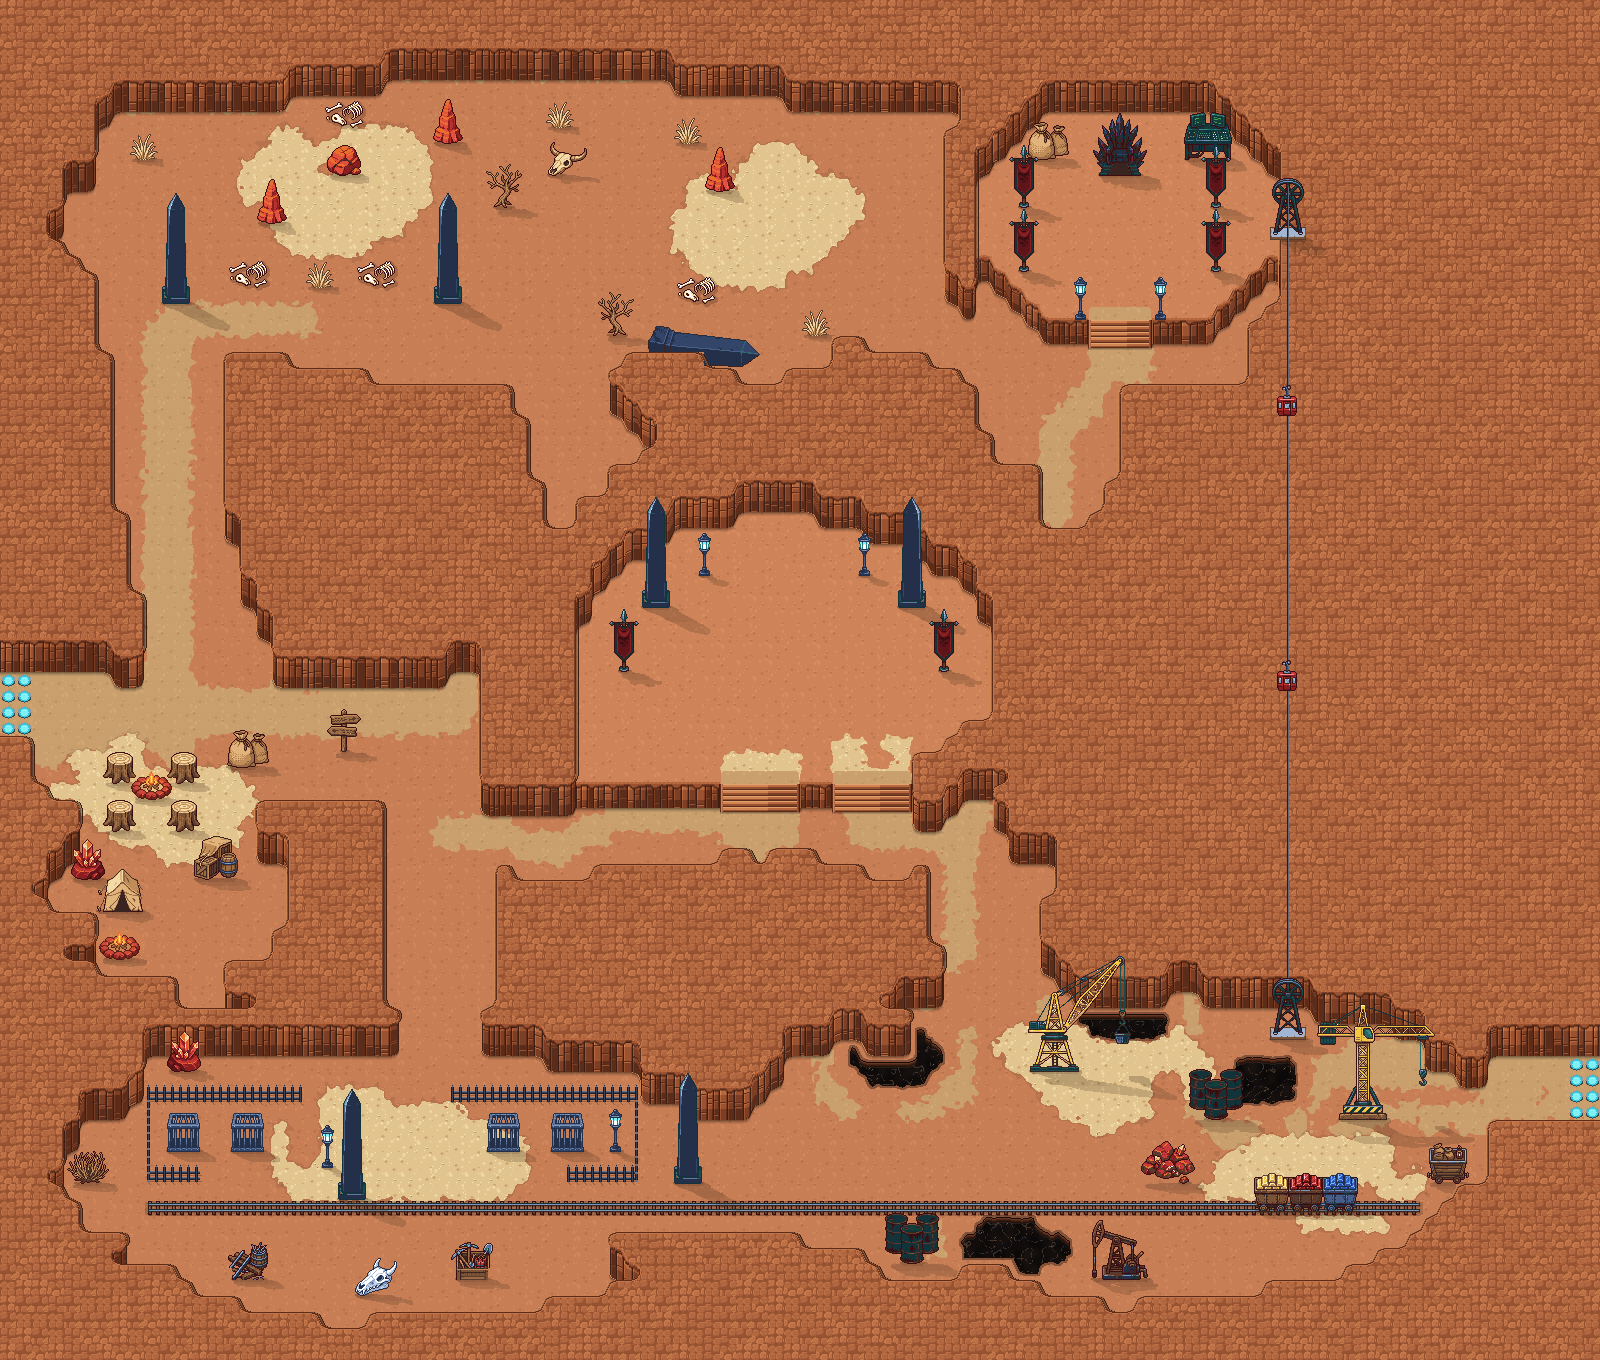
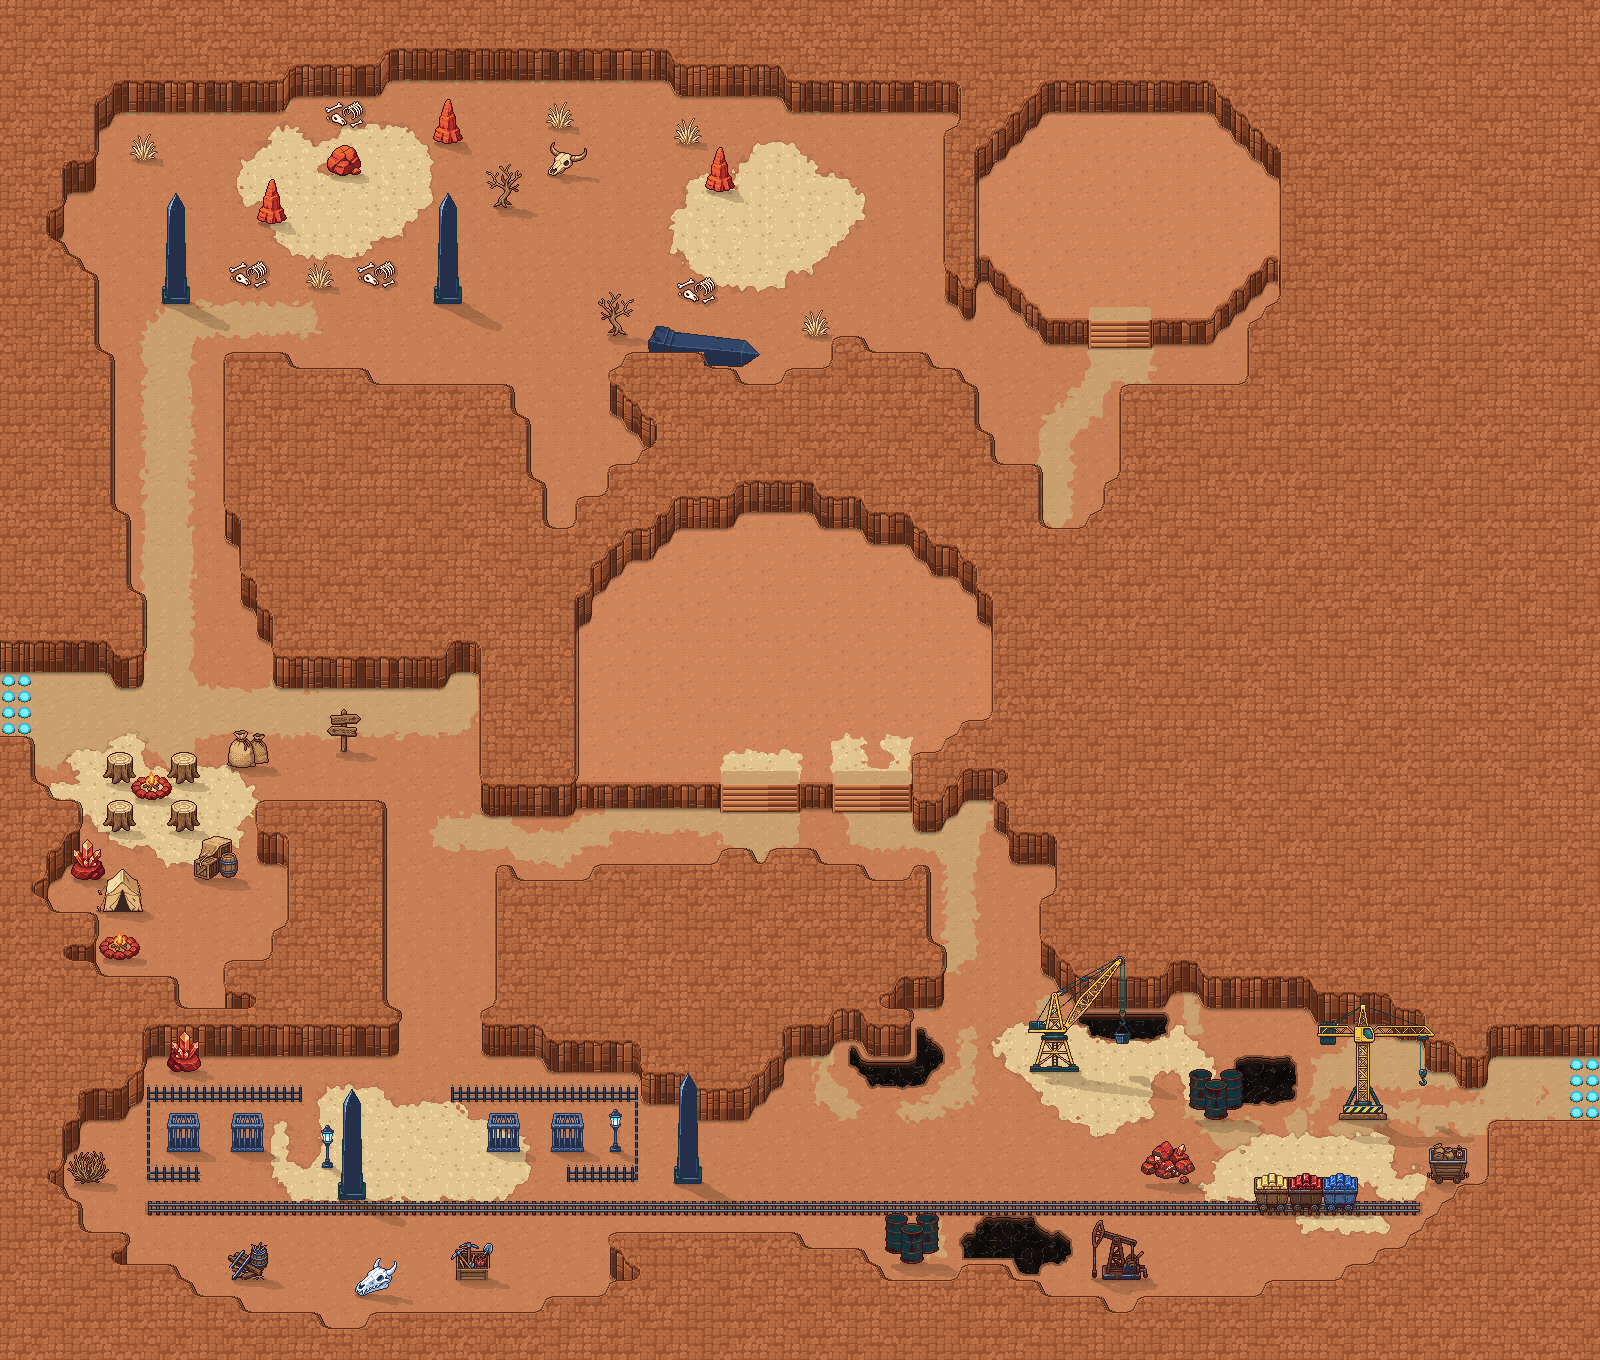
Karte 24: Seilbahn entfernt
Claude-Session: https://claude.ai/code/session_01SaoYHKhnro4LFcPJqjaPsq

diff --git a/tools/karte24_objekte.py b/tools/karte24_objekte.py
@@ -112,7 +112,7 @@ MINE = [(FAESSER, 75, 69, {}), (ERZHAUFEN, 72.5, 73, {}),       # an der mittler
         (PUMPE, 69, 79, {}), (FAESSER, 56.5, 78, {'spiegeln': True}),   # an der unteren Grube
         (VERSORGUNG, 90, 73, {})]                               # rechts neben den Loren
 SEILBAHN = [(MAST, 80, 14, {'seil': 'oben', 'auf_fels': True}), (MAST, 80, 64, {'seil': 'unten'})]   # Seilbahn Schrein -> Kraene
-UNTEN_LINKS = UNTEN_LINKS + LOREN + KRAENE + MINE + SEILBAHN + OBEN + SCHREIN_OBJ + ARENA_OBJ
+UNTEN_LINKS = UNTEN_LINKS + LOREN + KRAENE + MINE + OBEN          # Seilbahn entfernt (Nutzer: wird anders geloest) + SCHREIN_OBJ + ARENA_OBJ
 
 
 def main():
